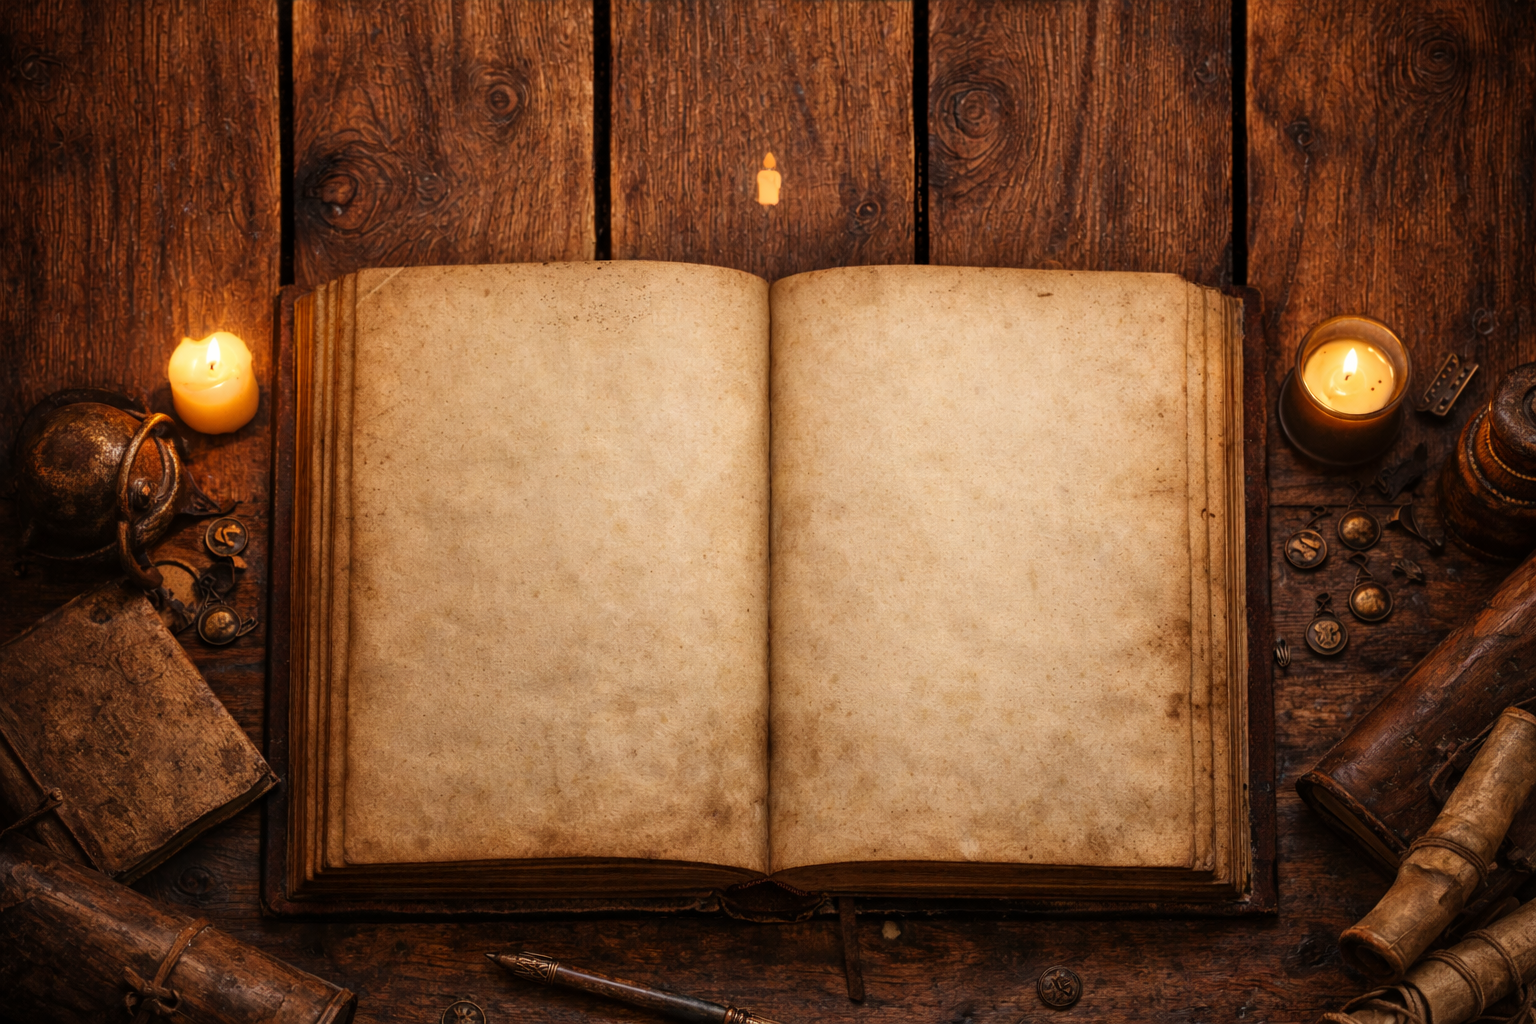
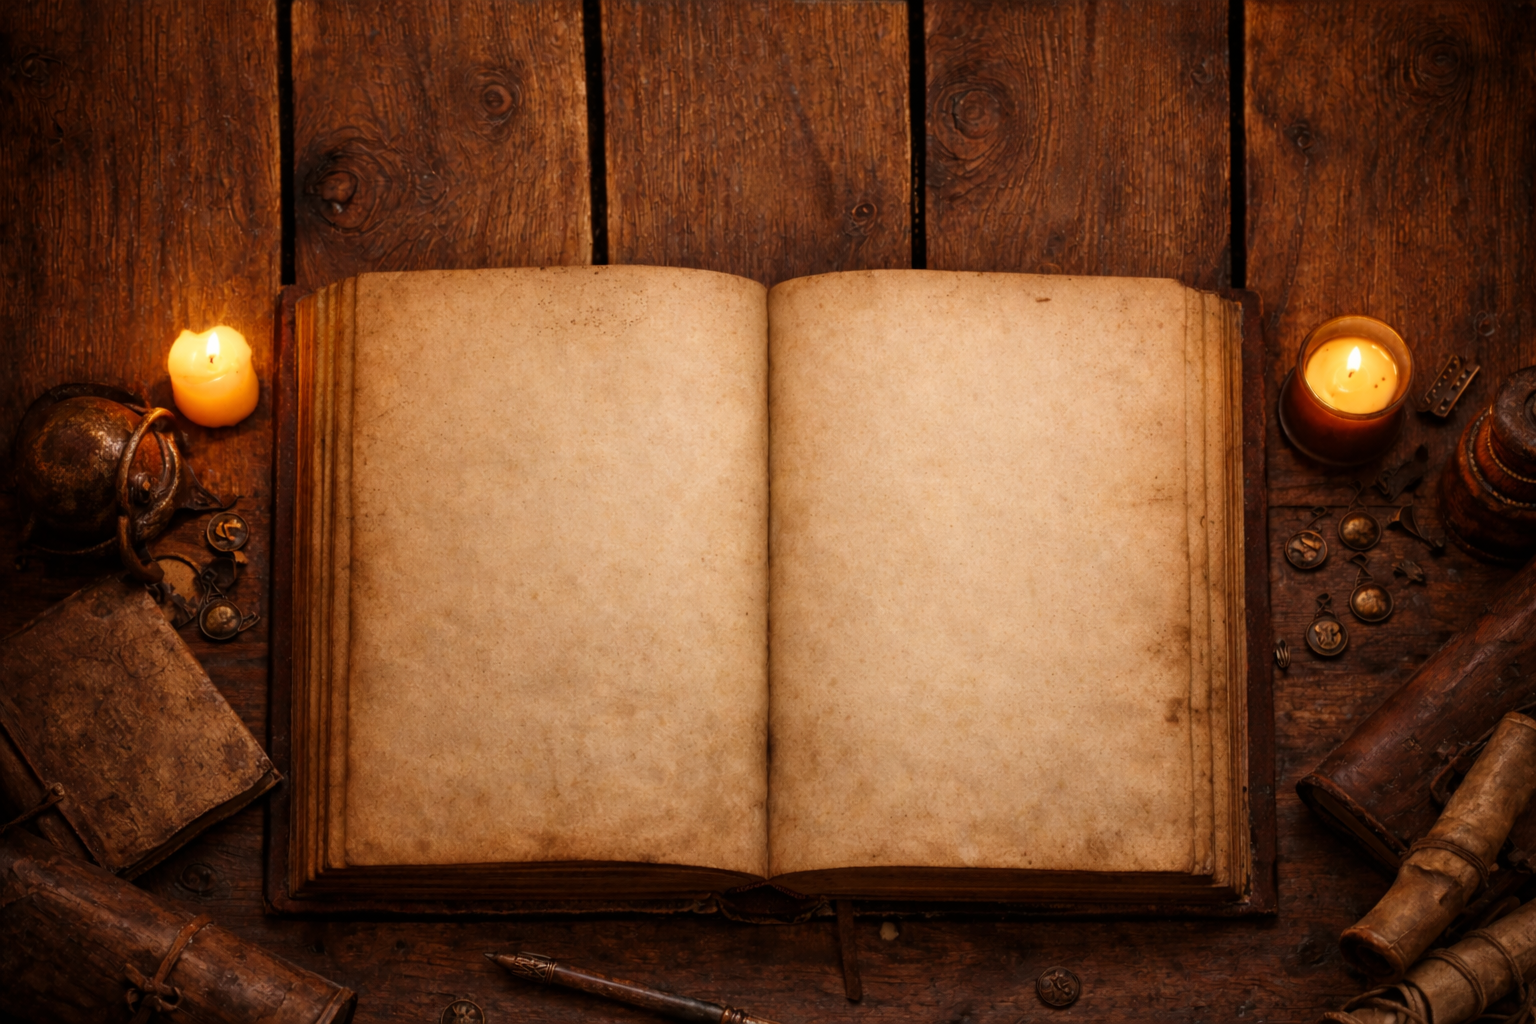
Transformation de l'image grimmoire en GIF

diff --git a/src/components/WelcomeScreen.tsx b/src/components/WelcomeScreen.tsx
@@ -1,7 +1,7 @@
 import { useState } from "react";
 import { useNavigate } from "react-router-dom";
 import { useCampaign } from "../hooks/useCampaign";
-import grimoireImg from "../assets/grimoire.png";
+import grimoireImg from "../assets/grimoire_candles.gif";
 
 type Props = { onEnter: () => void };
 

diff --git a/animate_grimoire_candles.py b/animate_grimoire_candles.py
@@ -1,0 +1,190 @@
+import argparse
+import math
+import random
+from pathlib import Path
+
+from PIL import Image, ImageDraw, ImageEnhance, ImageFilter
+
+
+DEFAULT_INPUT = r"C:\Users\quent\Documents\workspace\jdr-dashboard\src\assets\grimoire.png"
+DEFAULT_OUTPUT = r"C:\Users\quent\Documents\workspace\jdr-dashboard\src\assets\grimoire_candles.gif"
+
+# Coordinates tuned for a 1536x1024 image.
+# Adjust if you change the image or want tighter/looser flicker coverage.
+CANDLES = [
+    {
+        "name": "left",
+        "bbox": (150, 300, 270, 430),
+        "flame_center": (210, 350),
+        "glow_radius": 70,
+        "glow_color": (255, 145, 70),
+        "core_inner_radius": 14,
+        "core_inner_color": (255, 190, 95),
+        "core_outer_radius": 30,
+        "core_outer_color": (255, 155, 70),
+    },
+    {
+        "name": "right",
+        "bbox": (1260, 300, 1435, 470),
+        "flame_center": (1350, 350),
+        "glow_radius": 70,
+        "glow_color": (255, 145, 70),
+        "core_inner_radius": 14,
+        "core_inner_color": (255, 190, 95),
+        "core_outer_radius": 30,
+        "core_outer_color": (255, 155, 70),
+    },
+]
+
+
+def build_soft_mask(size, bbox, blur_radius=10):
+    mask = Image.new("L", size, 0)
+    draw = ImageDraw.Draw(mask)
+    draw.rectangle(bbox, fill=255)
+    return mask.filter(ImageFilter.GaussianBlur(blur_radius))
+
+
+def build_radial_mask(size, center, radius):
+    mask = Image.new("L", size, 0)
+    draw = ImageDraw.Draw(mask)
+    cx, cy = center
+    for r in range(radius, 0, -3):
+        alpha = int(255 * (r / radius) ** 1.7)
+        draw.ellipse((cx - r, cy - r, cx + r, cy + r), fill=alpha)
+    return mask.filter(ImageFilter.GaussianBlur(8))
+
+
+def apply_flicker(
+    frame,
+    candle,
+    strength,
+    region_mask,
+    glow_mask,
+    core_outer_mask,
+    core_inner_mask,
+):
+    x1, y1, x2, y2 = candle["bbox"]
+    region = frame.crop((x1, y1, x2, y2))
+
+    # Warm, subtle brightness/color boost for the candle area.
+    region = ImageEnhance.Brightness(region).enhance(1.0 + 0.14 * strength)
+    region = ImageEnhance.Color(region).enhance(1.0 + 0.10 * strength)
+
+    adjusted_full = frame.copy()
+    adjusted_full.paste(region, (x1, y1, x2, y2))
+
+    # Composite softened region back.
+    frame = Image.composite(adjusted_full, frame, region_mask)
+
+    # Add a glow layer.
+    glow = Image.new("RGBA", frame.size, candle["glow_color"] + (0,))
+    alpha = glow_mask.point(lambda v: int(v * (0.22 * strength)))
+    glow.putalpha(alpha)
+    frame = Image.alpha_composite(frame.convert("RGBA"), glow).convert("RGB")
+
+    # Two-layer core gradient: warm outer + brighter inner.
+    core_outer = Image.new("RGBA", frame.size, candle["core_outer_color"] + (0,))
+    core_outer_alpha = core_outer_mask.point(lambda v: int(v * (0.52 * strength)))
+    core_outer.putalpha(core_outer_alpha)
+    frame = Image.alpha_composite(frame.convert("RGBA"), core_outer).convert("RGB")
+
+    core_inner = Image.new("RGBA", frame.size, candle["core_inner_color"] + (0,))
+    core_inner_alpha = core_inner_mask.point(lambda v: int(v * (0.55 * strength)))
+    core_inner.putalpha(core_inner_alpha)
+    frame = Image.alpha_composite(frame.convert("RGBA"), core_inner).convert("RGB")
+
+    return frame
+
+
+def build_preview(image, candles):
+    preview = image.copy().convert("RGBA")
+    draw = ImageDraw.Draw(preview)
+    for c in candles:
+        draw.rectangle(c["bbox"], outline=(0, 255, 255, 220), width=3)
+        cx, cy = c["flame_center"]
+        r = c["glow_radius"]
+        draw.ellipse((cx - r, cy - r, cx + r, cy + r), outline=(255, 200, 0, 180), width=2)
+    return preview.convert("RGB")
+
+
+def generate_frames(image, frames, fps):
+    rng = random.Random(1337)
+    size = image.size
+
+    per_candle = []
+    for candle in CANDLES:
+        per_candle.append(
+            {
+                "candle": candle,
+                "region_mask": build_soft_mask(size, candle["bbox"], blur_radius=10),
+                "glow_mask": build_radial_mask(size, candle["flame_center"], candle["glow_radius"]),
+                "core_outer_mask": build_radial_mask(
+                    size, candle["flame_center"], candle["core_outer_radius"]
+                ),
+                "core_inner_mask": build_radial_mask(
+                    size, candle["flame_center"], candle["core_inner_radius"]
+                ),
+                "phase": rng.uniform(0, math.tau),
+            }
+        )
+
+    out = []
+    for i in range(frames):
+        t = i / frames
+        frame = image.copy()
+        for item in per_candle:
+            # Mix slow sine with random jitter for natural flicker.
+            base = 0.55 + 0.15 * math.sin((t * math.tau * 1.2) + item["phase"])
+            jitter = rng.uniform(-0.06, 0.10)
+            strength = max(0.15, min(1.0, base + jitter))
+            frame = apply_flicker(
+                frame,
+                item["candle"],
+                strength,
+                item["region_mask"],
+                item["glow_mask"],
+                item["core_outer_mask"],
+                item["core_inner_mask"],
+            )
+        out.append(frame)
+
+    duration_ms = int(1000 / fps)
+    return out, duration_ms
+
+
+def main():
+    parser = argparse.ArgumentParser(
+        description="Animate candle flicker on the grimoire image and export as GIF."
+    )
+    parser.add_argument("--input", default=DEFAULT_INPUT)
+    parser.add_argument("--output", default=DEFAULT_OUTPUT)
+    parser.add_argument("--frames", type=int, default=24)
+    parser.add_argument("--fps", type=int, default=20)
+    parser.add_argument("--preview", action="store_true")
+    args = parser.parse_args()
+
+    input_path = Path(args.input)
+    output_path = Path(args.output)
+
+    image = Image.open(input_path).convert("RGB")
+
+    if args.preview:
+        preview = build_preview(image, CANDLES)
+        preview_path = output_path.with_suffix(".preview.png")
+        preview.save(preview_path)
+        print(f"Preview saved to: {preview_path}")
+
+    frames, duration_ms = generate_frames(image, args.frames, args.fps)
+    frames[0].save(
+        output_path,
+        save_all=True,
+        append_images=frames[1:],
+        duration=duration_ms,
+        loop=0,
+        disposal=2,
+    )
+    print(f"GIF saved to: {output_path}")
+
+
+if __name__ == "__main__":
+    main()
